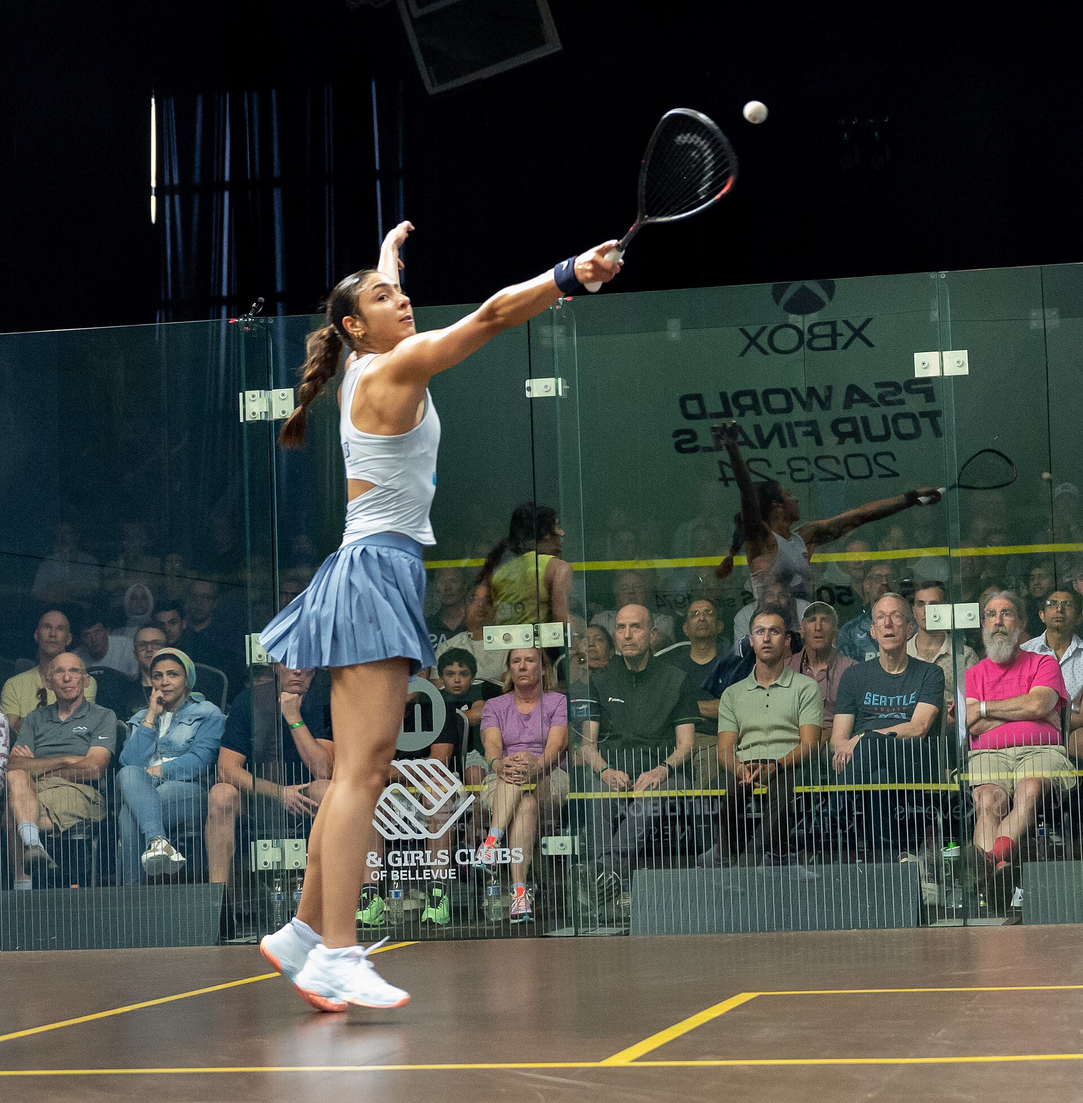
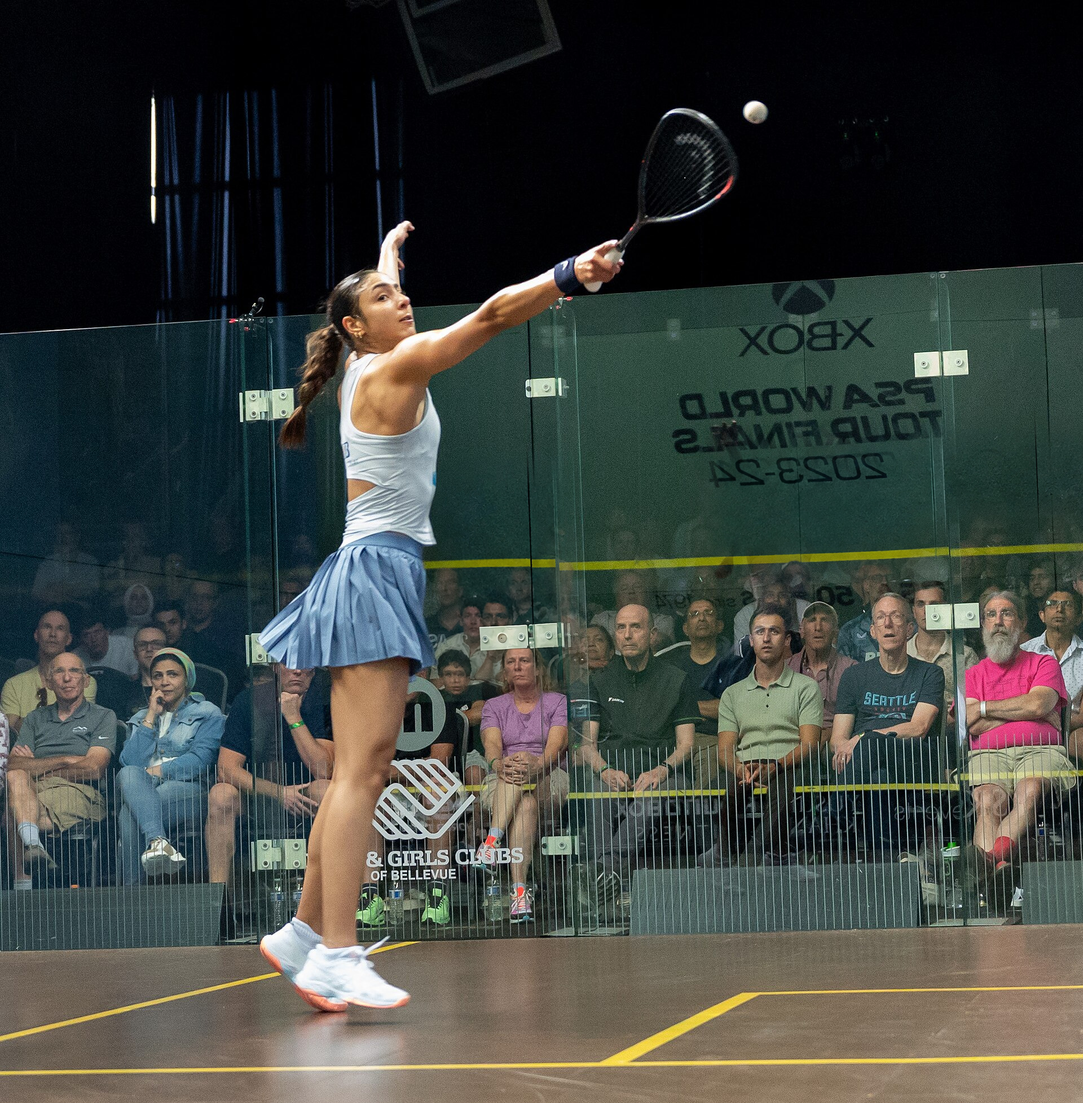
Hania hero photo: second player and reflection removed from the glass
Shabana read the opponent seen through the glass as a stray person in
the crowd. Patched only those two regions (opponent behind her hip,
reflection at right) using an AI fill composited onto the untouched
original, so every real face in the frame is the original pixels.
Licence note updated to record the modification, as CC BY-SA requires.

Changed region(s): [[0.6562, 0.4058, 0.9688, 0.5307], [0.4062, 0.4371, 0.5312, 0.6244], [0.9688, 0.4371, 1.0, 0.4683]]

diff --git a/components/Footer.tsx b/components/Footer.tsx
@@ -143,7 +143,7 @@ export default function Footer() {
             <a href="https://commons.wikimedia.org/wiki/File:Hania_El_Hammamy_at_the_2023-24_PSA_World_Tour_Finals-06.jpg" target="_blank" rel="noopener noreferrer" className="underline underline-offset-2 hover:text-white">1</a>,{" "}
             <a href="https://commons.wikimedia.org/wiki/File:Ali_Farag_at_the_2023-24_PSA_World_Tour_Finals-01.jpg" target="_blank" rel="noopener noreferrer" className="underline underline-offset-2 hover:text-white">2</a>,{" "}
             <a href="https://commons.wikimedia.org/wiki/File:Nele_Gilis_and_Olivia_Weaver_at_the_2023-24_PSA_World_Tour_Finals.jpg" target="_blank" rel="noopener noreferrer" className="underline underline-offset-2 hover:text-white">3</a>
-            ). Cropped and scaled for display; these versions are shared under the same licence. Universal Studios
+            ). Cropped and scaled for display, and a second player and a reflection on the glass were removed from the El Hammamy photograph; these versions are shared under the same licence. Universal Studios
             globe by Benoît Prieur,{" "}
             <a href="https://commons.wikimedia.org/wiki/File:Universal_Studios_Hollywood_globe_(July_2022).JPG" target="_blank" rel="noopener noreferrer" className="underline underline-offset-2 hover:text-white">CC0</a>.
             2015 World Championship photography copyright YSK Events.
